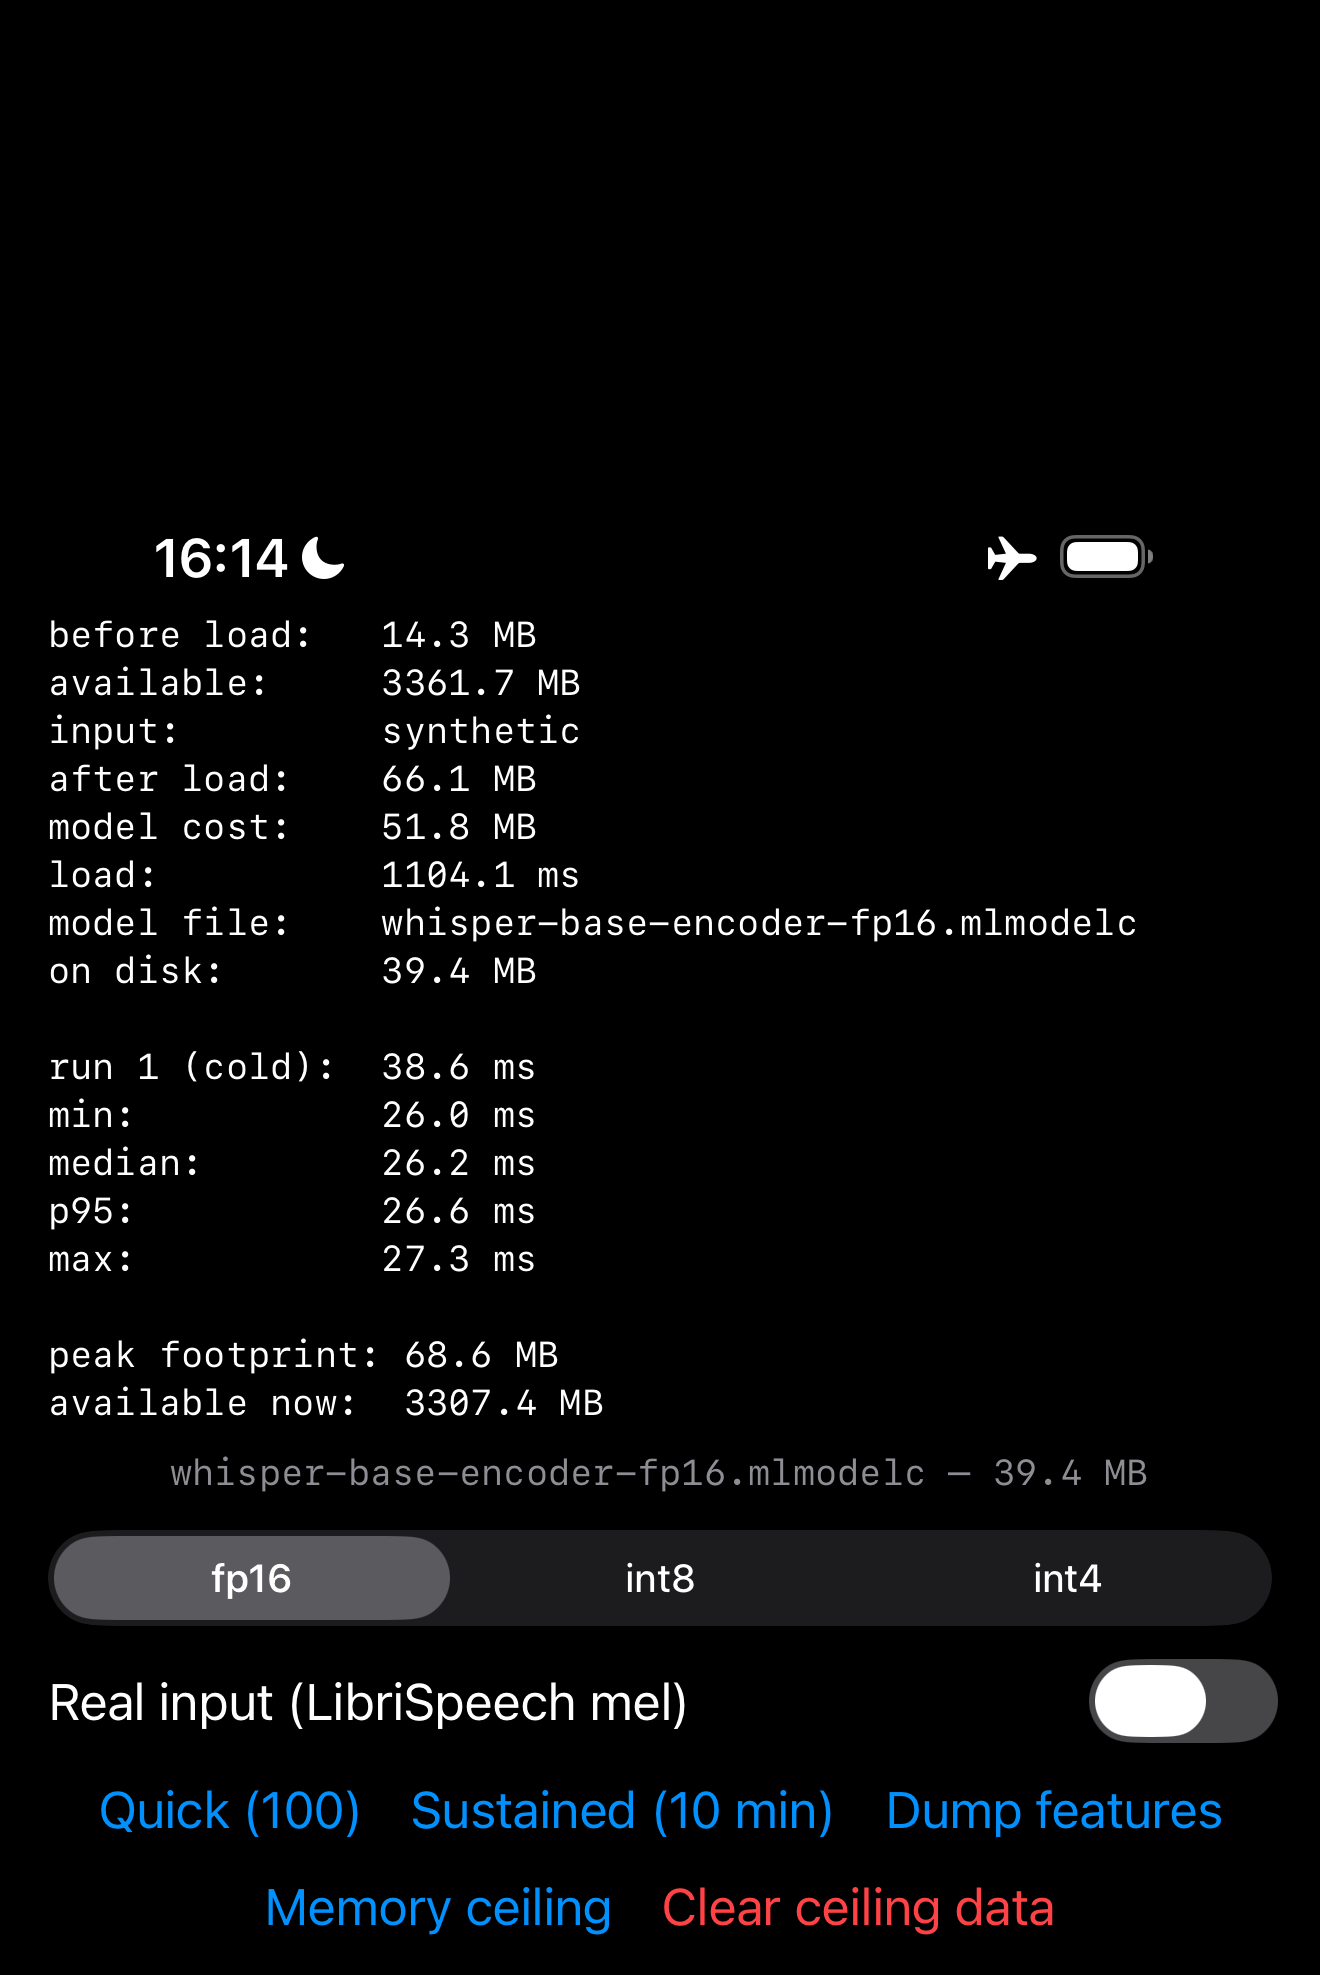
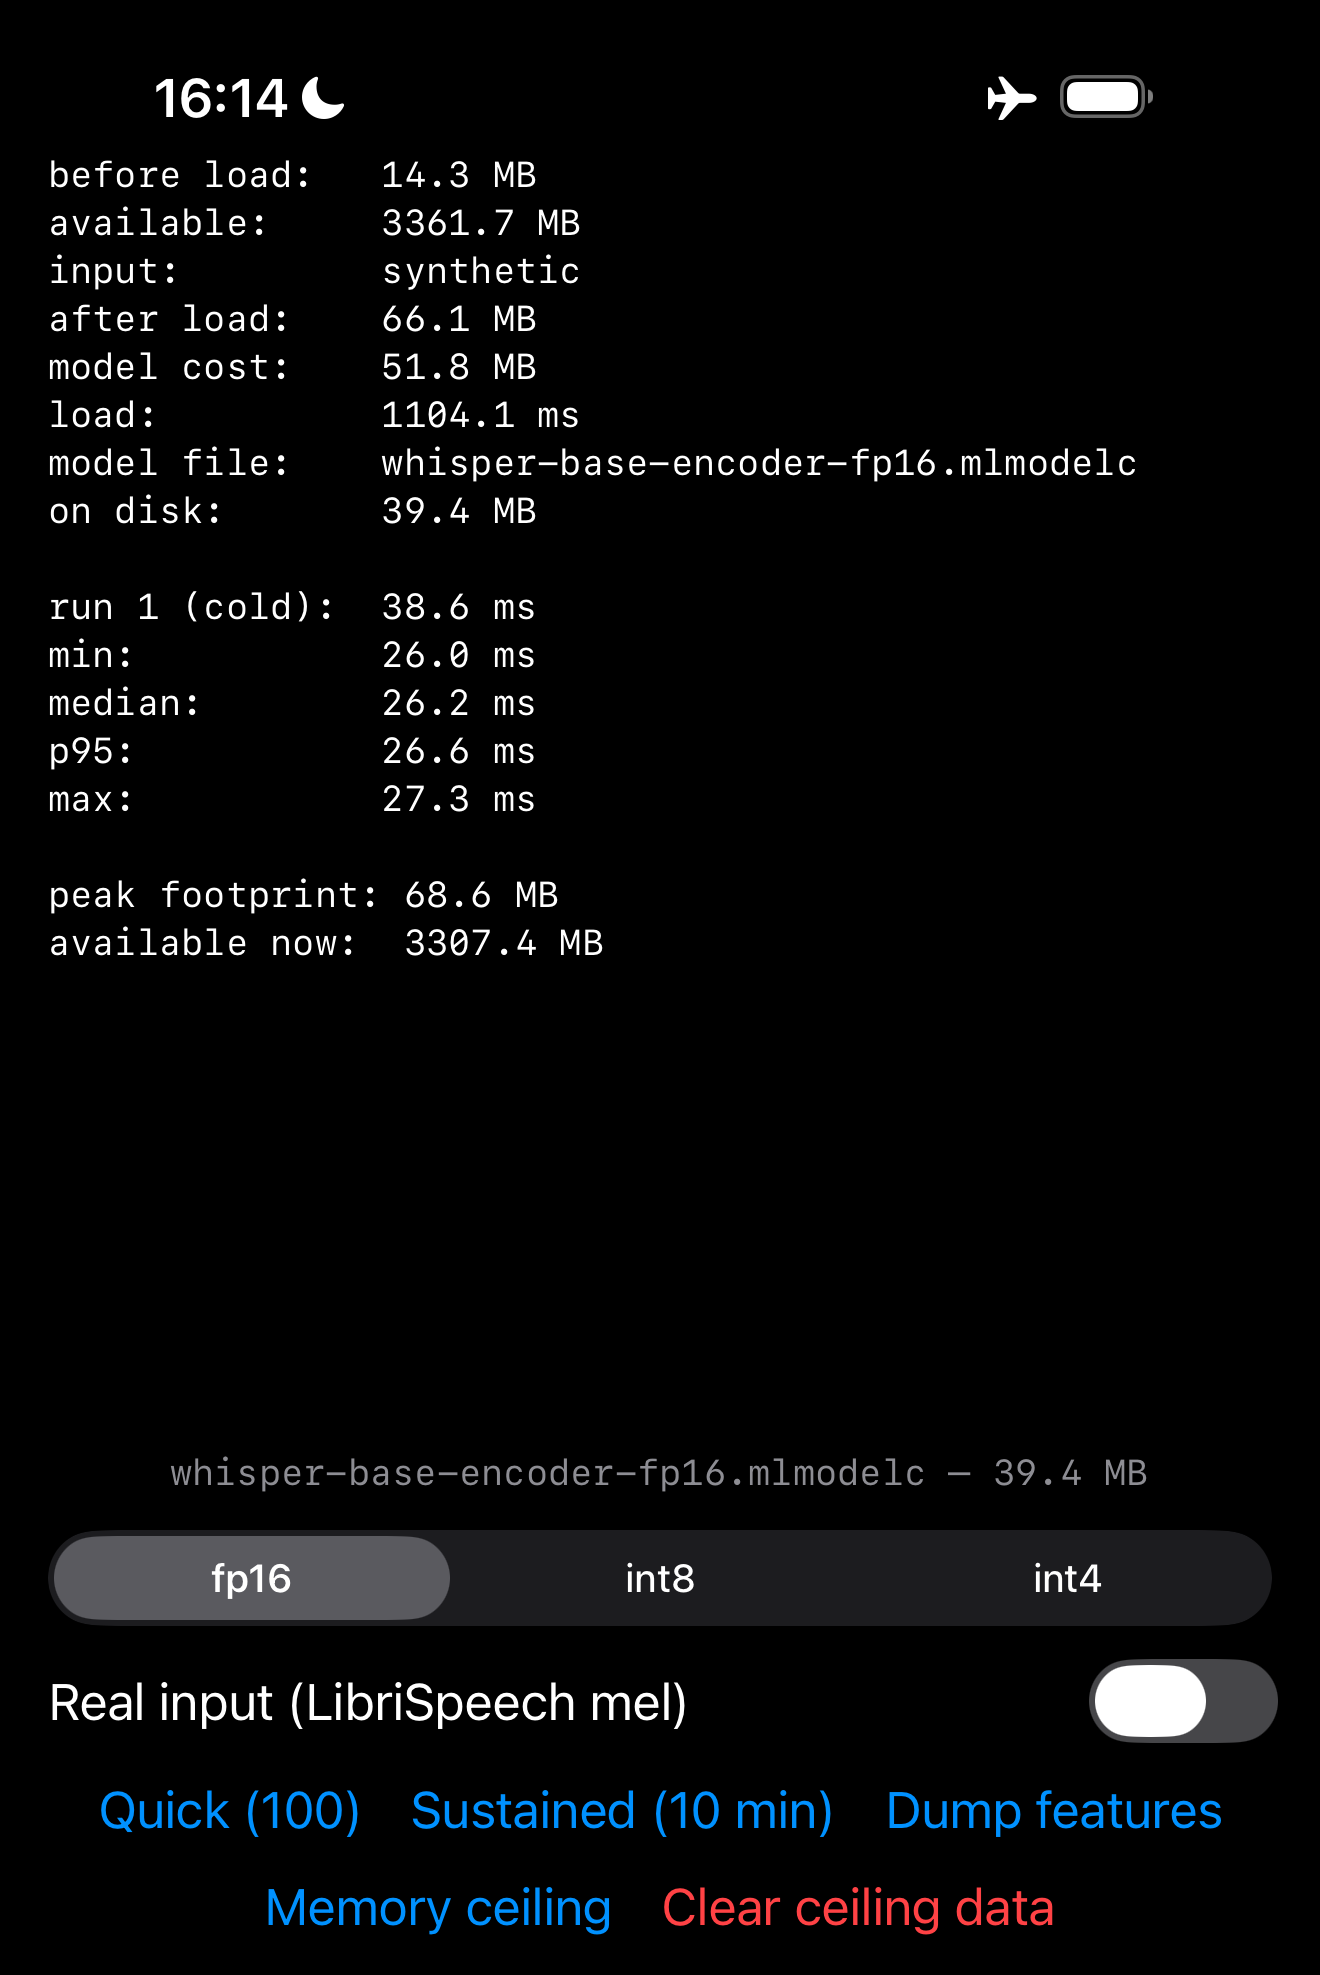
Put the screenshot padding back in the gap it was taken from
The previous commit equalised the two heights by padding into the largest
blank band, without excluding the ones at the top and bottom edge. For the
quick-run shot the largest band was the margin above the status bar, so
460px went in there and pushed that whole screen down the page: the frames
matched but the content inside them did not.

collapse() now takes the extra rows as a parameter and holds them in
whichever band was largest in the source, which for both screenshots is
the app's own gap between the readout and the controls. Both come out
1975px tall with a 75px top margin and a 40px bottom margin, so the status
bars line up, the buttons line up, and the leftover space sits where the
app drew it rather than above the clock.

pad_to() is gone; it only existed to do this the wrong way round.

Claude-Session: https://claude.ai/code/session_01EBQZ2MFvAbWnHPzs847Hx9

diff --git a/analysis/make_readme_crops.py b/analysis/make_readme_crops.py
@@ -65,26 +65,27 @@ def blank_bands(mask, minimum=1):
         row = end
 
 
-def collapse(arr):
-    """Shorten every blank band longer than MIN_RUN_PX down to KEEP_PX."""
-    keep = np.ones(len(arr), dtype=bool)
-    for start, end in blank_bands(blank_rows(arr), MIN_RUN_PX + 1):
-        keep[start + KEEP_PX // 2 : end - KEEP_PX // 2] = False
-    return arr[np.flatnonzero(keep)]
+def collapse(arr, extra=0):
+    """Shorten every blank band longer than MIN_RUN_PX down to KEEP_PX.
 
-
-def pad_to(arr, height):
-    """Grow arr to `height` by repeating a row from its largest blank band."""
-    missing = height - len(arr)
-    if missing <= 0:
-        return arr
-    bands = sorted(blank_bands(blank_rows(arr)), key=lambda b: b[1] - b[0])
+    `extra` rows are left in the band that was largest in the source, which is
+    how the two screenshots are brought to a common height: the space goes
+    back into the gap it was taken from, rather than onto the top margin
+    (which shifts the whole screen down) or into some other gap the app only
+    ever drew a few pixels of.
+    """
+    bands = list(blank_bands(blank_rows(arr), MIN_RUN_PX + 1))
     if not bands:
-        raise ValueError("no blank band to pad into")
-    start, end = bands[-1]
-    at = (start + end) // 2
-    filler = np.repeat(arr[at : at + 1], missing, axis=0)
-    return np.concatenate([arr[:at], filler, arr[at:]])
+        return arr
+    largest = max(bands, key=lambda b: b[1] - b[0])
+
+    keep = np.ones(len(arr), dtype=bool)
+    for start, end in bands:
+        hold = KEEP_PX + (extra if (start, end) == largest else 0)
+        cut_from, cut_to = start + hold // 2, end - (hold - hold // 2)
+        if cut_to > cut_from:
+            keep[cut_from:cut_to] = False
+    return arr[np.flatnonzero(keep)]
 
 
 def main():
@@ -94,8 +95,8 @@ def main():
     collapsed = {n: collapse(a) for n, a in sources.items()}
     target = max(len(a) for a in collapsed.values())
 
-    for name, arr in collapsed.items():
-        out = pad_to(arr, target)
+    for name in SCREENSHOTS:
+        out = collapse(sources[name], extra=target - len(collapsed[name]))
         Image.fromarray(out).save(os.path.join(OUT_DIR, name))
         original = len(sources[name])
         print(
